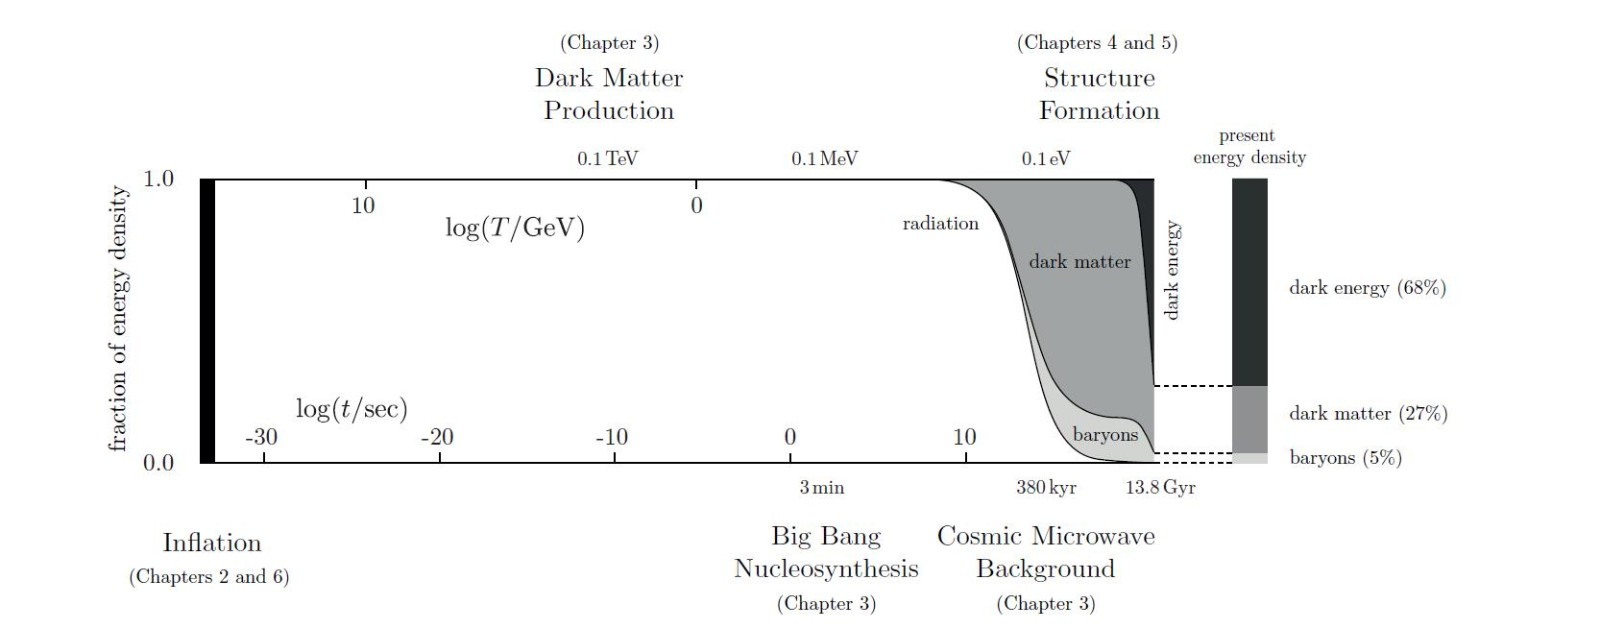
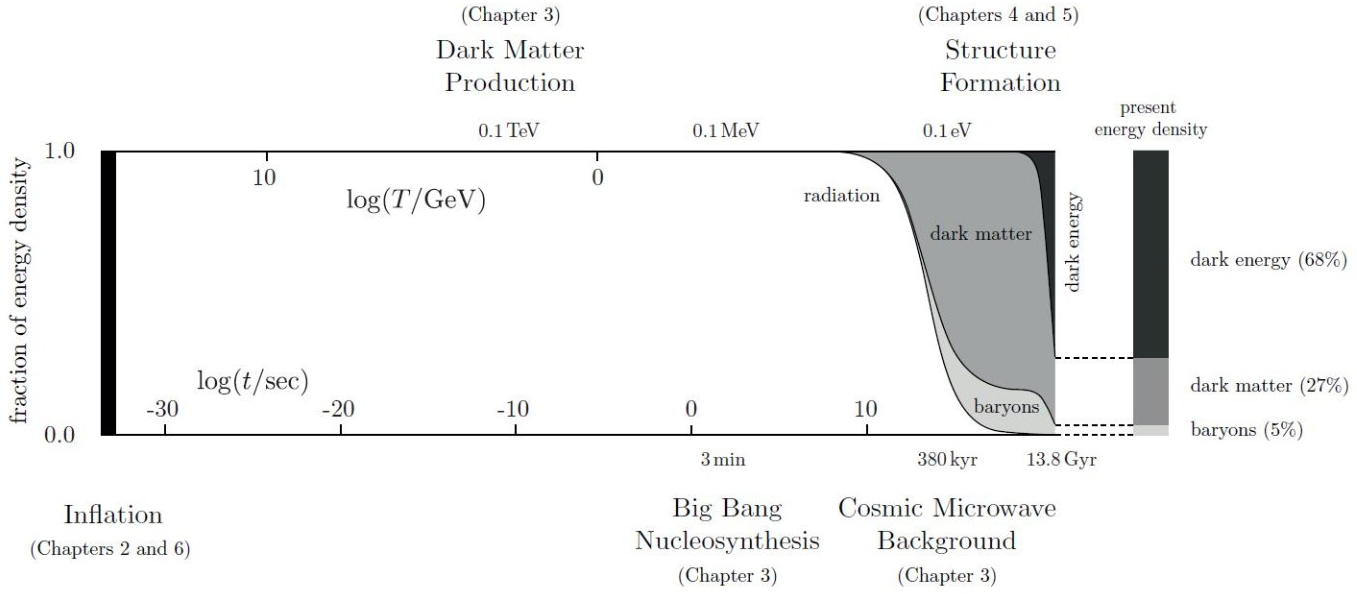
常规更新
* 群论等

Changed region(s): [[0.0, 0.0, 1.0, 0.9933], [0.0, 0.8428, 0.1857, 0.9331], [0.4952, 0.6622, 0.5262, 0.6923]]

diff --git a/contents/Conven.tex b/contents/Conven.tex
@@ -1,31 +1,32 @@
 % 本书符号与规范
 % 符号|规范|单位制
 
-这里列出本书中一些可能会产生歧义的符号以及规范， 并给出对应词条的链接
+这里列出本书中一些可能会产生歧义的符号以及规范， 并给出对应词条的链接．
 
 \subsection{数学}
 \begin{itemize}
-\item 集合\upref{Set} 中 $\subseteq$ 和 $\subset$ 表示子集， $\subsetneq$ 表示真子集， 但应该尽量避免使用 $\subset$
-\item 映射\upref{map} 的分类使用\autoref{map_def1}
+\item 较长的整数可以使用逗号对每三位进行分割， 如 $2,456,789$．
+\item 集合\upref{Set} 中 $\subseteq$ 和 $\subset$ 表示子集， $\subsetneq$ 表示真子集， 但应该尽量避免使用 $\subset$．
+\item 映射\upref{map} 的分类使用\autoref{map_def1}．
 \item 使用粗体与正体表示几何矢量\upref{GVec}， 如 $\bvec v$， 也可以用于表示列矢量或行矢量以及矩阵， 矩阵一般用大写， 如 $\mat A$．
-\item 在粗体与正体矢量上方加 hat 表示单位矢量， 如 $\uvec x$
-\item 也可以用狄拉克符号表示任意矢量空间的矢量， 如 $\ket{v}$， 对偶矢量如 $\bra{v}$， 内积如 $\braket{u}{v}$
+\item 在粗体与正体矢量上方加 hat 表示单位矢量， 如 $\uvec x$．
+\item 也可以用狄拉克符号表示任意矢量空间的矢量， 如 $\ket{v}$， 对偶矢量如 $\bra{v}$， 内积如 $\braket{u}{v}$．
 \item 如无声明词条默认使用国际单位制\upref{Consts}， 若使用其他单位制， 要在每个词条开头用脚注声明 “本词条使用 xxx 单位制”． 例如原子单位\upref{AU}， 厘米—克—秒\upref{CGS}， 或高斯单位制\upref{GaussU}．
 \end{itemize}
 
 \subsection{电动力学}
 \begin{itemize}
-\item 使用 $\epsilon$ 而不是 $\varepsilon$ 表示电解质常量
+\item 使用 $\epsilon$ 而不是 $\varepsilon$ 表示电介质常量．
 \end{itemize}
 
 \subsection{相对论}
 \begin{itemize}
-\item 用 $\gamma$ 表示 $1/\sqrt{1 - v^2/c^2}$
+\item 用 $\gamma$ 表示 $1/\sqrt{1 - v^2/c^2}$．
 \end{itemize}
 
 \subsection{统计力学}
 \begin{itemize}
-\item $\Xi$ 表示配分函数
-\item $k_B$ 表示玻尔兹曼常数
-\item 如果温度使用能量单位， 意思是该温度（开尔文温标）乘以玻尔兹曼常数 $k_B T$
+\item $\Xi$ 表示配分函数．
+\item $k_B$ 表示玻尔兹曼常数．
+\item 如果温度使用能量单位， 意思是该温度（开尔文温标）乘以玻尔兹曼常数 $k_B T$．
 \end{itemize}

diff --git a/contents/FreGrp.tex b/contents/FreGrp.tex
@@ -51,7 +51,7 @@
 给定集合$S$．给$S$中的每一个元素$x$都赋予一个“逆字母”，记为$x^{-1}$．
 \end{definition}
 
-字母的逆是用来满足群的“逆元存在性”的．如果一个词中出现某个字母和对应的逆字母相连接，那么它们就必须被“消除”．比如说，$lsdd^{-1}l^{-1}m^{-1}m$被认为和$lsl^{-1}$是相同的．特别地，对于任何字母$x, y$，我们认为$xx^{-1}$，$x^{-1}x$，$yy^{-1}$，$y^{-1}y$都是同一个词，称为\textbf{空词（empty word）}．
+字母的逆是用来满足群的“逆元存在性”的．如果一个词中出现某个字母和对应的逆字母相连接，那么它们就必须被“消除”．比如说，$lsdd^{-1}l^{-1}m^{-1}m$被认为和$lsl^{-1}$是相同的．特别地，对于任何字母$x, y$，我们认为$xx^{-1}$，$x^{-1}x$，$yy^{-1}$，$y^{-1}y$都是同一个词，称为\textbf{空词（empty word）}或\textbf{空字}．
 
 有了这个规则，我们就可以构造出一个群了：
 
@@ -59,7 +59,7 @@
 给定集合$S$，用它的元素作为字母．$S$中的全体字母和它们的逆字母可构成词，并且构词过程中把相邻的互逆字母消除，这样得到的词所构成的集合记为$F(S)$．在$F(S)$中定义运算为词的首尾相连，那么$F(S)$配合该运算构成一个群，称为\textbf{由集合$S$生成的自由群（free group）}，或\textbf{自由生成群}．
 \end{theorem}
 
-自由群的单位元就是\textbf{空字}．一个词的字母都取逆以后反序排列，就得到了这个词的逆元．比如说，$le^{-1}tter$的逆元素就是$r^{-1}e^{-1}t^{-1}t^{-1}r^{-1}el^{-1}$．
+自由群的单位元就是\textbf{空词}．一个词的字母都取逆以后反序排列，就得到了这个词的逆元．比如说，$le^{-1}tter$的逆元素就是$r^{-1}e^{-1}t^{-1}t^{-1}r^{-1}el^{-1}$．
 
 自由群是结构复杂度最高的群，这是因为所有的群都可以看成某个自由群的商群，而商群是把原来的群中一些细节特征忽略掉的结果．这个结论是由以下定理保证的：
 

diff --git a/contents/edTODO.tex b/contents/edTODO.tex
@@ -27,11 +27,13 @@
 \subsection{Editor BUG}
 按重要性排序
 \begin{itemize}
-\item “重新编译并发布” 按钮没有成功调用 scan 程序， 也没有显示命令行的结果（应该指定 online 路径重新运行 \verb|./PhysWikiScan .|）
+\item 在使用替换图片功能时， 输入的编号是图片的显示编号（也就是按照代码中 figure 环境出现的顺序编号）而不是图片文件名中的编号， 二者可能会不同．
 
 \item 上传图片等待的时候提示 “PhysWikiScan 没有响应， 请稍后再试”， 过一段时间后， 图片上传成功．
 
-\item 上传图片时如果进行其他操作会出问题（移动光标或者再次上传图片）． 点击上传图片按钮后， 先在当前光标处插入代码然后再开始上传． 上传图片时在左下角显示等待的转圈动画或者进度条， 可以点 X 终止． 如果终止或其他原因上传失败， 则提示 “上传图片失败， 请手动删除图片环境”．
+\item 上传图片时如果进行其他操作会出问题（移动光标或者再次上传图片）． 点击上传图片按钮后， 应该先在当前光标处插入代码然后再开始上传（现在是传完再插入）． 上传图片时在左下角显示进度条， 可以点 X 终止． 上传过程中禁止再次上传图片， 如果终止或其他原因上传失败， 则提示 \verb|上传图片失败， 请手动删除图片环境|．
+
+\item “重新编译并发布” 按钮没有成功调用 scan 程序， 也没有显示命令行的结果（应该指定 online 路径重新运行 \verb|./PhysWikiScan .|）
 
 \item 【完成】普通用户（如 test5）使用 “下载变更文件” 按钮时出错： \verb|下载已更改文件失败：Error in api "/editor/api/download-files": findLines is not defined|
 

diff --git a/contents/FrePrd.tex b/contents/FrePrd.tex
@@ -1,0 +1,15 @@
+% 群的自由积
+\pentry{自由群\upref{FreGrp}}
+
+将自由群的概念推广，即可得到两个群之间的自由积的概念．
+
+\subsection{自由积的构造}
+
+给定两个群$G$和$H$，取集合$G\cup H$上的自由群$F(G\cup H)$，则$F(G\cup H)$的元素形如$x_1x_2\cdots x_k$的有限长字符串，其中$k$是某个正整数，各$x_i$都是$G\cup H$的元素．
+
+在$F(G\cup H)$上定义一个等价关系：如果字符串$g_1g_2\cdots g_k$中各$g_i\in G$，那么令$g_1g_2\cdots g_k\sim g_1\cdot g_2\cdot\cdots\cdot g_k$，即把该字符串等同于各字母在群$G$中运算的结果；同样地把字母都是$H$中元素的字符串等同于这些元素在群$H$中的运算结果；把$G$和$H$的单位元等同于空词．比如说，在整数加法群$\mathbb{Z}$中，把字符串$123$等同于数字$1+2+3$所代表的字符串，即只有一个字母$6$的字符串．
+
+这样一来，商群$F(G\cup H)/\sim$中的字符串就形如$g_1h_1g_2h_2\cdots g_kh_k$、$g_1h_1g_2h_2\cdots g_k$、$h_1g_1h_2g_2\cdots h_kg_k$或$h_1g_1h_2g_2\cdots h_k$的字符串，或者简单来说，有限长的$g$和$h$的交替字符串，其中$g, g_i\in G$，$h, h_i\in H$．
+
+称商群$F(G\cup H)/\sim$为群$G$和群$H$的\textbf{自由积（free product）}，记为$G*H$．
+

diff --git a/contents/HomT4.tex b/contents/HomT4.tex
@@ -1,0 +1,8 @@
+% 高阶同伦群
+\pentry{基本群\upref{HomT3}}
+
+基本群的符号被定义为$\pi_1$．你可能好奇为什么要有一个下标$1$——这是因为基本群只是同伦群中的一种，而仅仅用$\pi_1$群来描述一个拓扑空间往往是不够的．
+
+考虑三个拓扑空间：二维球面（如地球表面）$S^2$，挖去中心的三维球体（如挖去地心的地球）$D^3-x_0$以及$n$维几何空间$\mathbb{R}^n$．容易看出，这三个空间中的任意道路都彼此同伦，因此对任何基点来说都只存在一个回路类，意味着它们的基本群都是平凡群（只有一个元素）．这样一来，对于空间中有几个洞、空间的维度是什么等信息就丢失了，我们就需要推广基本群的概念来描述这些性质．这就是高阶同伦群．
+
+\subsection{$2$阶同伦群}

diff --git a/contents/AtomId.tex b/contents/AtomId.tex
@@ -375,7 +375,7 @@ v = \frac{\Delta x }{\Delta t}
 
 \begin{figure}[ht]
 \centering
-\includegraphics[width=15cm]{./figures/AtomId_9.pdf}
+\includegraphics[width=14.5cm]{./figures/AtomId_9.pdf}
 \caption{经过时间$t$，波形会向前移动$vt$，或者说是函数沿$x$方向发生了平移，平移前函数是$\psi(x)$，而平移后函数是$\psi(x - vt)$．} \label{AtomId_fig9}
 \end{figure}
 

diff --git a/contents/UniEvo.tex b/contents/UniEvo.tex
@@ -59,7 +59,7 @@
 
 \begin{figure}[ht]
 \centering
-\includegraphics[width=30cm]{./figures/UniEvo_1.png}
+\includegraphics[width=14.5cm]{./figures/UniEvo_1.png}
 \caption{宇宙成分变化} \label{UniEvo_fig2}
 \end{figure}
 
